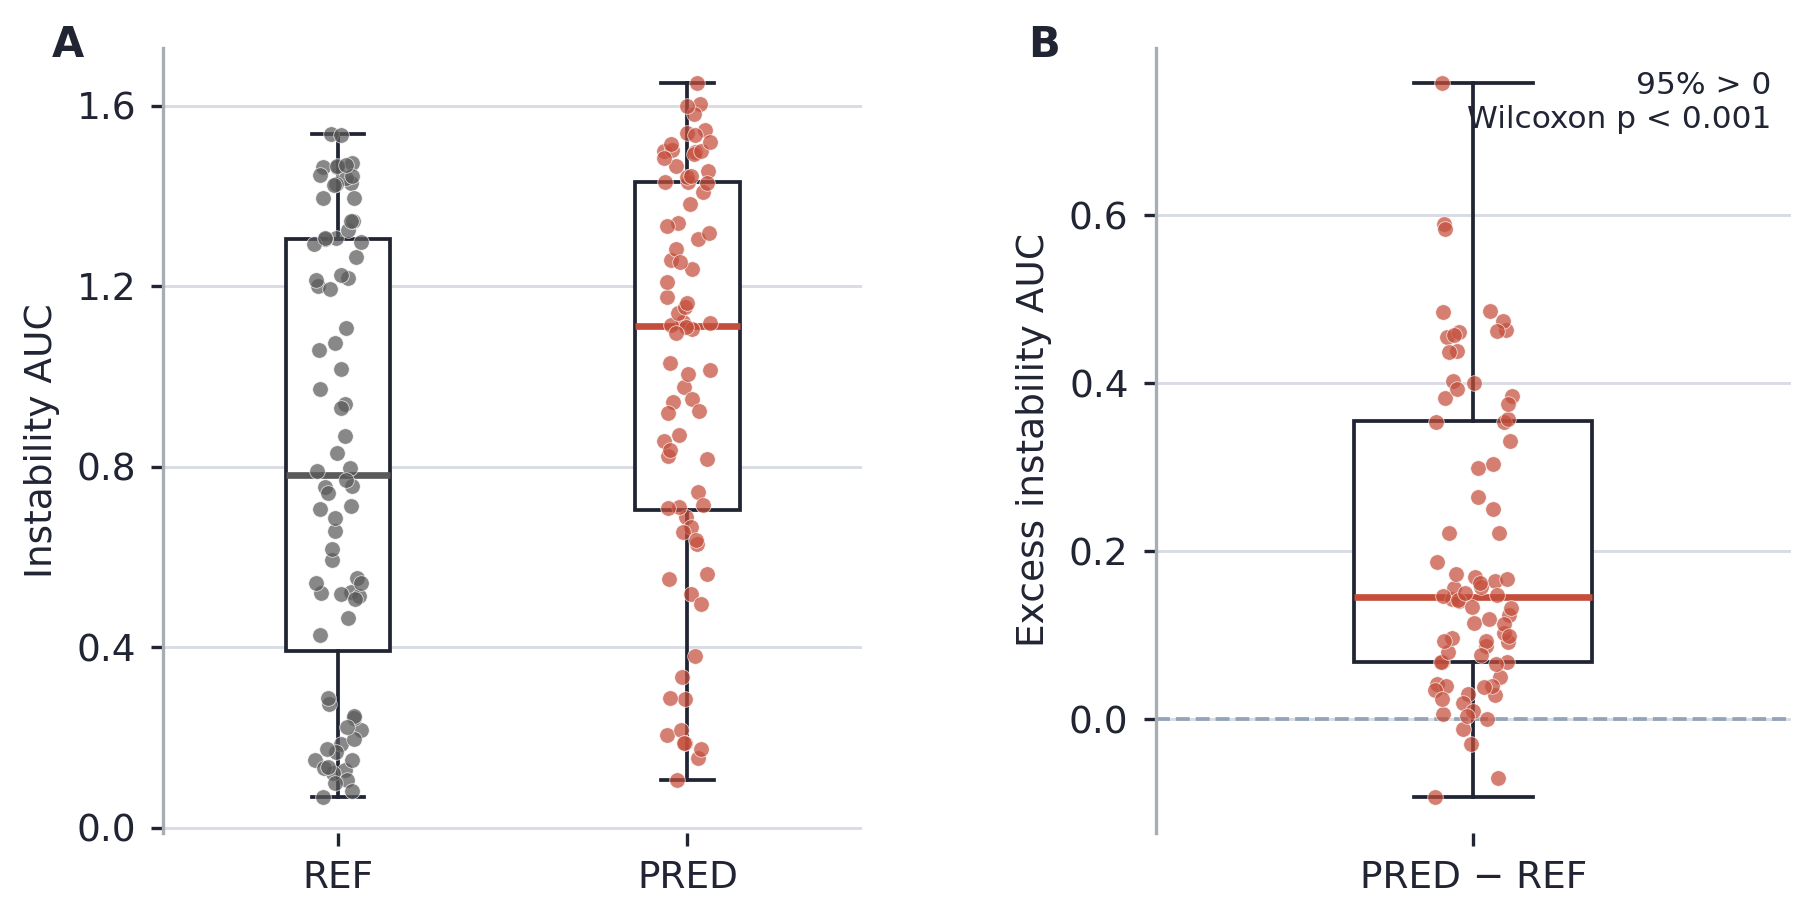
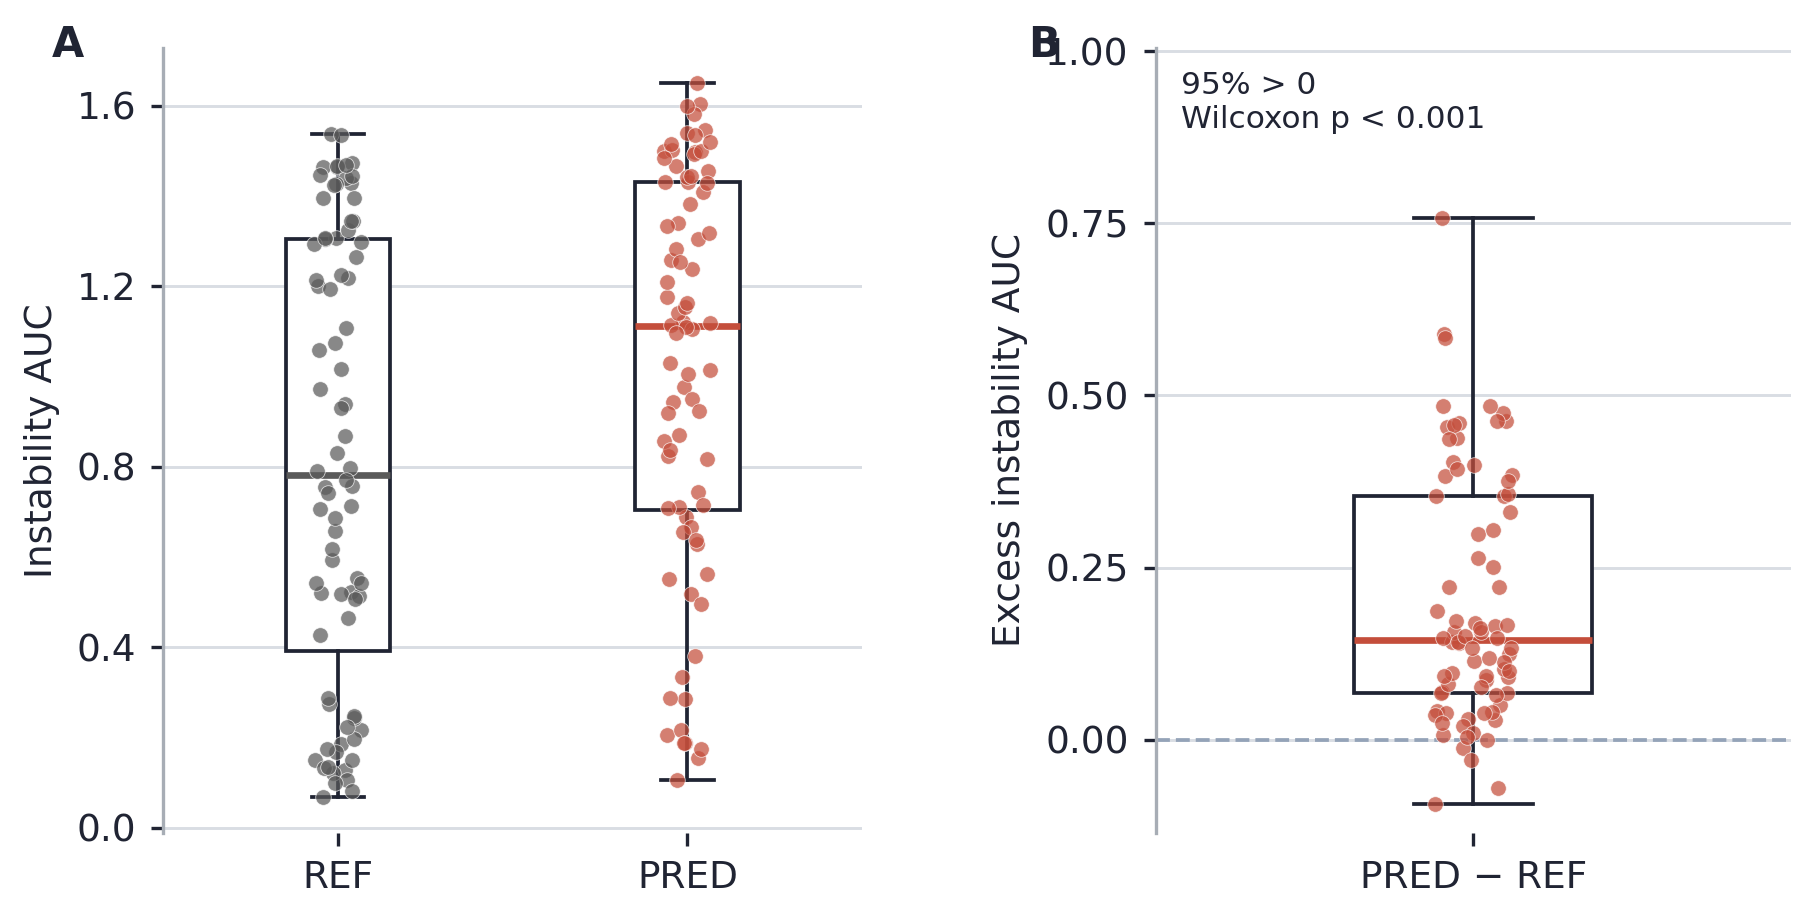
Fix text-over-data overlaps in figs 2-5
Fig 2B: move Excess AUC label to mid-right gap between PRED and REF
  traces; add white background box
Fig 3: move mean/median labels to left side (short bars, clear space);
  add white background boxes
Fig 4B: move Wilcoxon annotation to upper-left (no scatter data there);
  add 22% ylim headroom so top whisker cap does not touch annotation
Fig 5 (all panels): add white background box to stat annotations to
  prevent overlap with corner scatter points

Changed region(s): [[0.5248, 0.213, 0.9879, 0.8826], [0.5865, 0.0304, 0.9879, 0.1522], [0.8953, 0.5783, 0.9879, 0.6391]]

diff --git a/analysis/make_paper_figures.py b/analysis/make_paper_figures.py
@@ -608,8 +608,10 @@ def fig2_representative_trial(sim_df: pd.DataFrame, trial_idx: int = 75) -> str:
     ax2.set_ylabel("Instability score", fontsize=9)
     ax2.set_ylim(-0.02, 1.08)
     ax2.legend(loc="upper left", fontsize=8, frameon=False)
-    ax2.text(0.97, 0.04, f"Excess AUC = {excess:.3f}",
-             transform=ax2.transAxes, ha="right", va="bottom", fontsize=8, color=INK)
+    # Mid-right: gap between PRED (≈1) and REF (≈0) after t≈0.8 s is clear
+    ax2.text(0.97, 0.52, f"Excess AUC = {excess:.3f}",
+             transform=ax2.transAxes, ha="right", va="center", fontsize=8, color=INK,
+             bbox=dict(fc="white", ec="none", pad=1.5))
     ax2.xaxis.set_major_locator(MaxNLocator(nbins=5))
     ax2.yaxis.set_major_locator(MaxNLocator(nbins=4))
     _grid(ax2, "y")
@@ -634,10 +636,12 @@ def fig3_prediction(train_df: pd.DataFrame) -> str:
     ax.bar(x, rmse, width=0.82, color=bar_colors, edgecolor=WHITE, linewidth=0.2, alpha=0.88, zorder=3)
     ax.axhline(mean_v, color="#475569", linewidth=1.0, linestyle="--", zorder=5)
     ax.axhline(med_v,  color="#475569", linewidth=1.0, linestyle=":",  zorder=5)
-    ax.text(rmse.size - 0.5, mean_v + 0.4, f"Mean {mean_v:.1f}\u00b0",
-            ha="right", va="bottom", fontsize=7.5, color="#475569")
-    ax.text(rmse.size - 0.5, med_v - 0.4, f"Median {med_v:.1f}\u00b0",
-            ha="right", va="top", fontsize=7.5, color="#475569")
+    # Place labels on the left where bars are short (≈4°), well below the lines
+    _tb = dict(fc="white", ec="none", pad=1.5)
+    ax.text(2.5, mean_v + 0.45, f"Mean {mean_v:.1f}\u00b0",
+            ha="left", va="bottom", fontsize=7.5, color="#475569", bbox=_tb, zorder=6)
+    ax.text(2.5, med_v - 0.45, f"Median {med_v:.1f}\u00b0",
+            ha="left", va="top", fontsize=7.5, color="#475569", bbox=_tb, zorder=6)
     ax.set_xlabel("Held-out fold (sorted by RMSE)", fontsize=9)
     ax.set_ylabel("Test RMSE (deg)", fontsize=9)
     ax.set_xlim(0.2, float(rmse.size) + 0.8)
@@ -705,12 +709,16 @@ def fig4_simulation(sim_df: pd.DataFrame) -> str:
     ax_ex.set_xlim(0.6, 1.4)
     ax_ex.set_ylabel("Excess instability AUC", fontsize=9)
     ax_ex.yaxis.set_major_locator(MaxNLocator(nbins=5))
-    n_pos = int(np.sum(excess > 0))
-    ax_ex.text(0.97, 0.97,
-               f"{100 * n_pos / len(excess):.0f}% > 0\nWilcoxon p < 0.001",
-               transform=ax_ex.transAxes, ha="right", va="top", fontsize=7.5, color=INK)
     _grid(ax_ex, "y")
     ax_ex.spines["bottom"].set_visible(False)
+    # Extend ylim to give annotation headroom above the top whisker
+    _lo, _hi = ax_ex.get_ylim()
+    ax_ex.set_ylim(_lo, _hi + (_hi - _lo) * 0.22)
+    n_pos = int(np.sum(excess > 0))
+    ax_ex.text(0.04, 0.97,
+               f"{100 * n_pos / len(excess):.0f}% > 0\nWilcoxon p < 0.001",
+               transform=ax_ex.transAxes, ha="left", va="top", fontsize=7.5, color=INK,
+               bbox=dict(fc="white", ec="none", pad=1.5))
     ax_ex.text(-0.20, 1.03, "B", transform=ax_ex.transAxes,
                fontsize=10, fontweight="bold", va="top", color=INK)
 
@@ -814,7 +822,8 @@ def fig5_correlation(trials_df: pd.DataFrame, partial_sum: dict[str, Any]) -> st
         ax.set_xlabel(xlab, fontsize=9)
         ax.set_ylabel(ylab, fontsize=9)
         ax.text(0.97, 0.97, _rho_text(float(rho), float(p)),
-                transform=ax.transAxes, ha="right", va="top", fontsize=7.5, color=INK)
+                transform=ax.transAxes, ha="right", va="top", fontsize=7.5, color=INK,
+                bbox=dict(fc="white", ec="none", pad=1.5))
         _grid(ax, "both")
         ax.xaxis.set_major_locator(MaxNLocator(nbins=5))
         ax.yaxis.set_major_locator(MaxNLocator(nbins=5))
